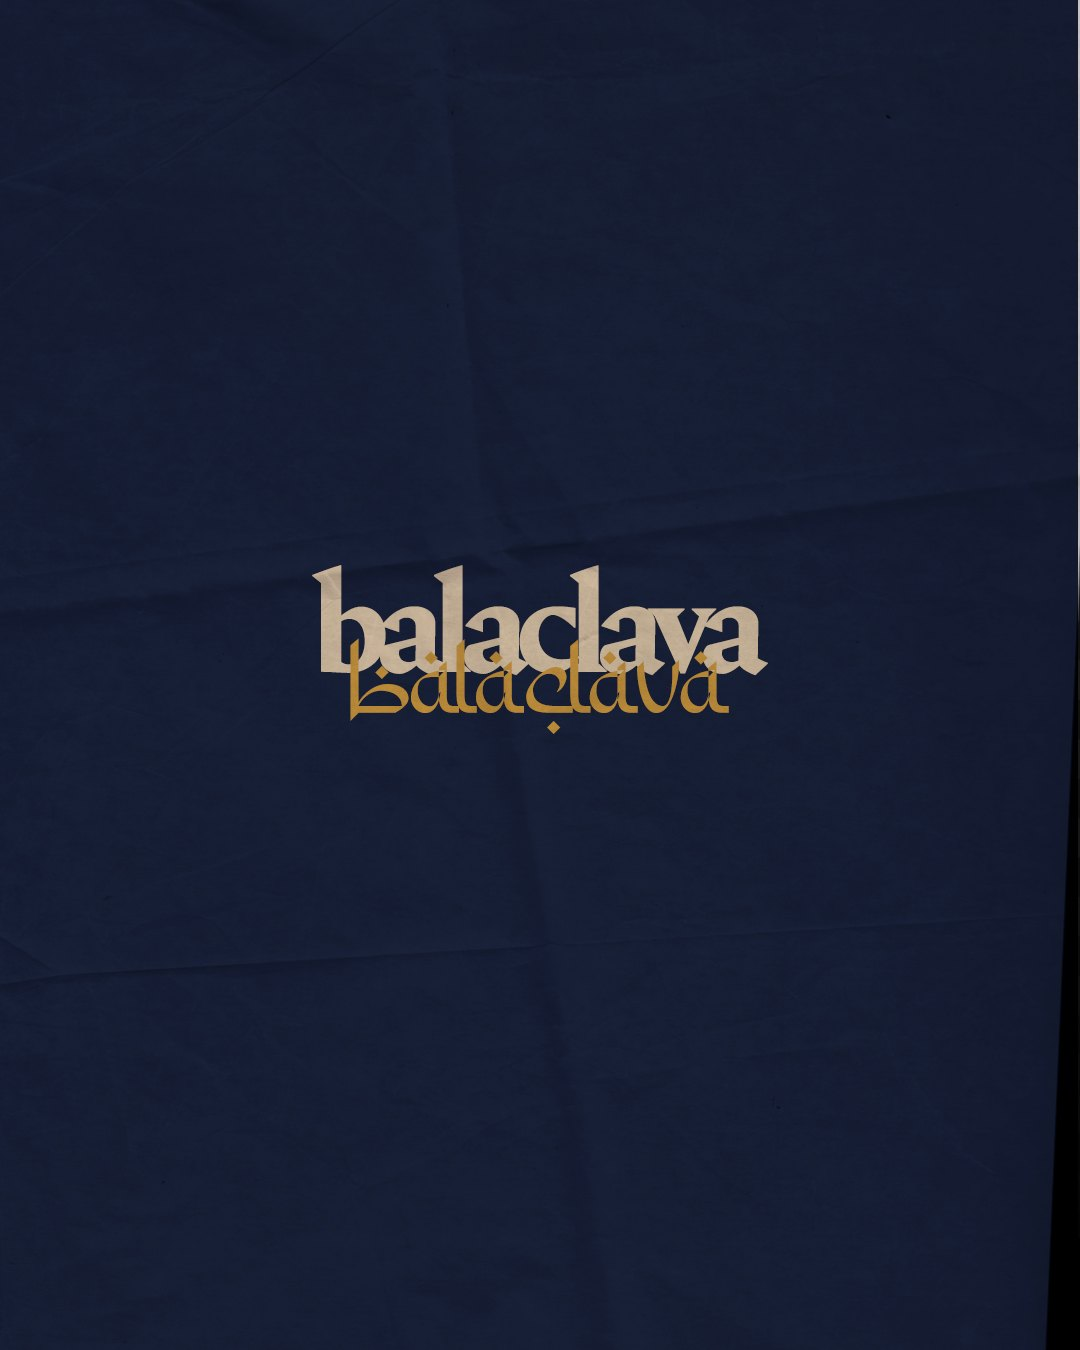
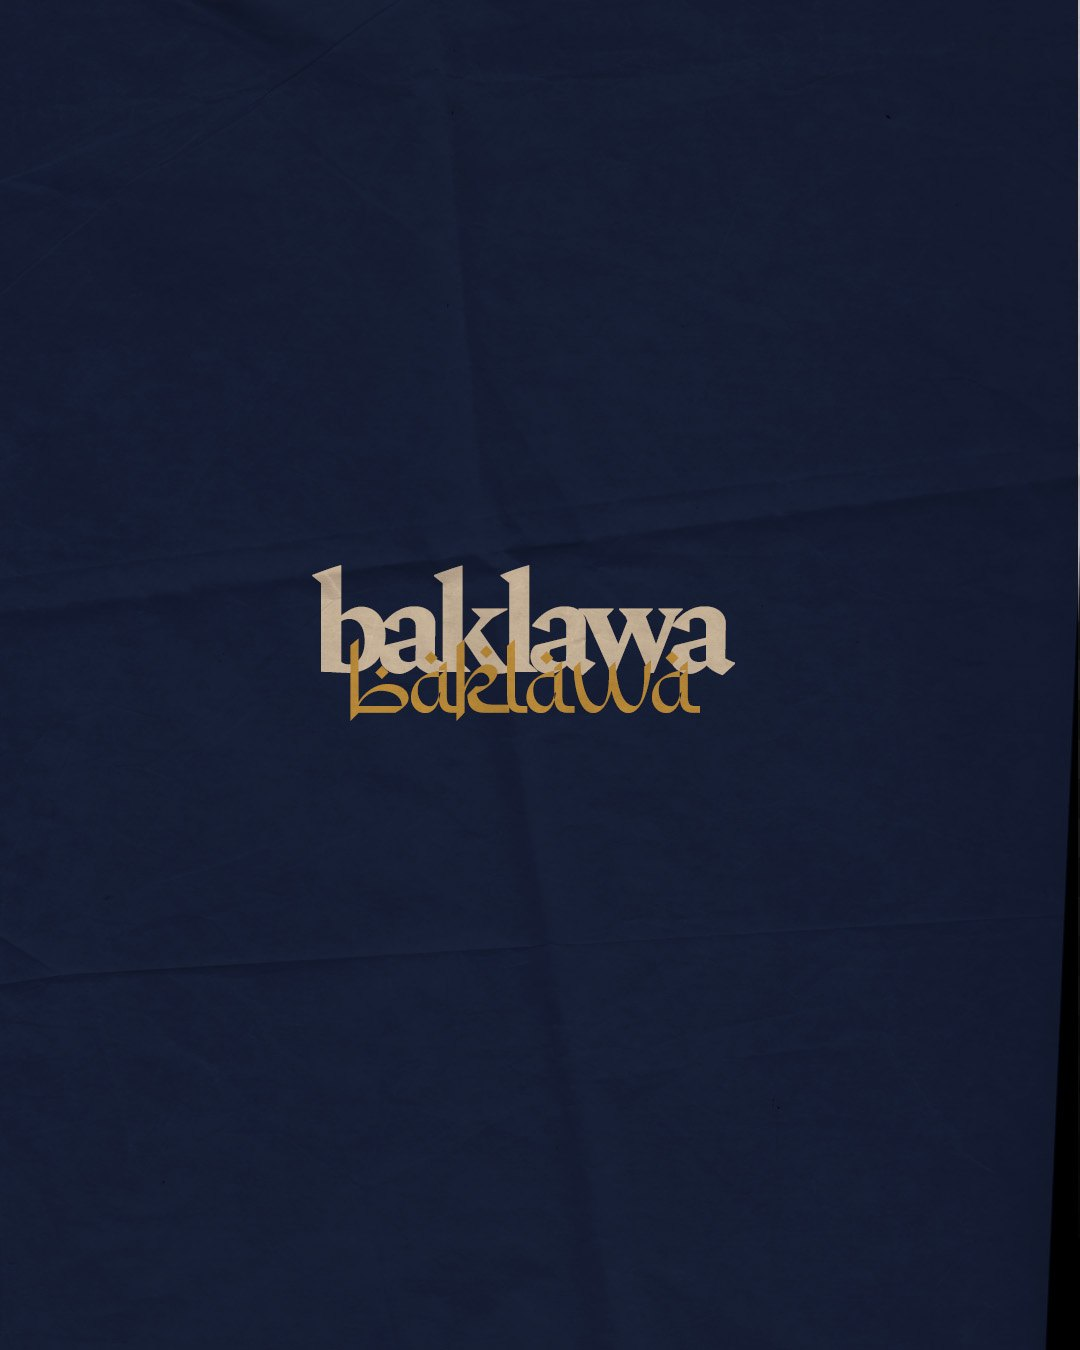
Yasmine: atualiza peças 01 (tela 2) e 13 (baklawa)
Claude-Session: https://claude.ai/code/session_01Y3VWB5AakMQg7nFhwvDpAo

Changed region(s): [[0.4278, 0.4044, 0.7028, 0.5289]]

diff --git a/public/yasmine/index.html b/public/yasmine/index.html
@@ -375,7 +375,7 @@ textarea{width:100%;min-height:70px;resize:vertical;background:var(--ink);color:
   },
   "months": [
     {"id":"2026-10","label":"Outubro","year":"2026","posts":[
-    {"id":"01","date":"","format":"carrossel","images":["img/01-1.jpg","img/01-2.jpg","img/01-3.jpg","img/01-4.jpg"],"caption":"Legenda em breve."},
+    {"id":"01","date":"","format":"carrossel","images":["img/01-1.jpg","img/01-2.jpg?v=2","img/01-3.jpg","img/01-4.jpg"],"caption":"Legenda em breve."},
     {"id":"02","date":"","format":"carrossel","images":["img/02-1.jpg","img/02-2.jpg","img/02-3.jpg"],"caption":"Legenda em breve."},
     {"id":"03","date":"","format":"reels","video":"vid/03.mp4","images":["img/03-1.jpg"],"caption":"Legenda em breve."},
     {"id":"04","date":"","format":"reels","video":"vid/04.mp4?v=2","images":["img/04-1.jpg?v=4"],"caption":"Legenda em breve."},
@@ -387,7 +387,7 @@ textarea{width:100%;min-height:70px;resize:vertical;background:var(--ink);color:
     {"id":"10","date":"","format":"reels","video":"vid/10.mp4","images":["img/10-1.jpg"],"caption":"Legenda em breve."},
     {"id":"11","date":"","format":"carrossel","images":["img/11-1.jpg","img/11-2.jpg"],"caption":"Legenda em breve."},
     {"id":"12","date":"","format":"reels","video":"vid/12.mp4","images":["img/12-1.jpg?v=2"],"caption":"Legenda em breve."},
-    {"id":"13","date":"","format":"carrossel","images":["img/13-1.jpg","img/13-2.jpg"],"caption":"Legenda em breve."},
+    {"id":"13","date":"","format":"carrossel","images":["img/13-1.jpg","img/13-2.jpg?v=2"],"caption":"Legenda em breve."},
     {"id":"14","date":"","format":"post","images":["img/14-1.jpg"],"caption":"Legenda em breve."},
     {"id":"15","date":"","format":"carrossel","images":["img/15-1.jpg","img/15-2.jpg"],"caption":"Legenda em breve."},
     {"id":"16","date":"","format":"post","images":["img/11-3.jpg?v=2"],"caption":"Legenda em breve."},
